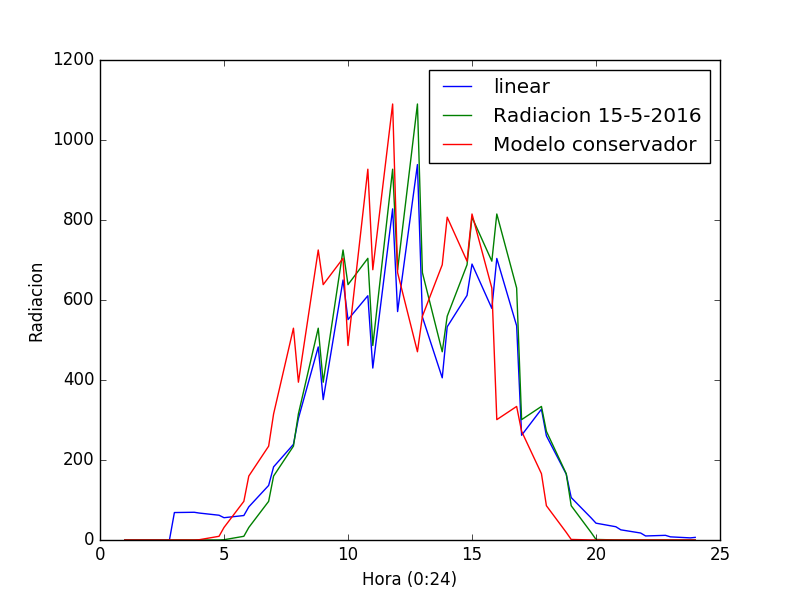
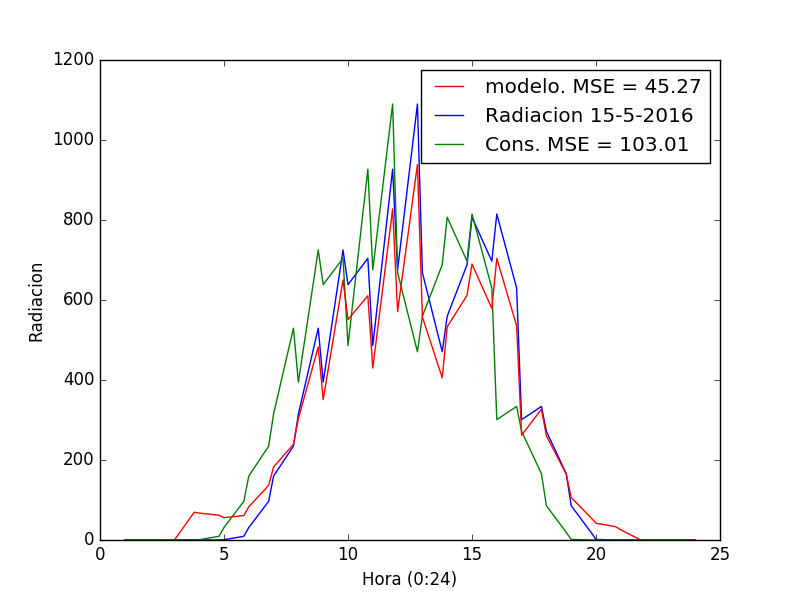
new plots and TODOS

diff --git a/memoria/chapter7.tex b/memoria/chapter7.tex
@@ -56,20 +56,58 @@ Como se puede observar en la figura \ref{resultado_linear}, el modelo obtenido c
 \item fit\_intercept: True
 \end{itemize}
 
-En el anexo \ref{Appendix:Key1} de Regresión Lineal, se muestran distintas gráficas con la radiación de este modelo durante varios días del año, la predicción que obtenemos con el modelo obtenido con mayor coeficiente de correlación y el modelo conservador.
+En el capítulo \ref{Appendix:Key1} (Anexo: Gráficas Regresión Lineal), se muestran distintas gráficas con la radiación de este modelo durante varios días del año, la predicción que obtenemos con el modelo obtenido con mayor coeficiente de correlación y el modelo conservador.
 
 Este ``modelo conservador'' expresa una predicción de la radiación que toma como valor, la radiación que toma como predicción la radiación en el instante anterior.
 
 El objetivo de este proyecto es superar, como mínimo este modelo conservador.
 
+% TODO - Hablar sobre mean square error
+
 \section{SVR}
 \label{makereference7.2}
 
-Para la exploración del modelo SVR usamos las siguientes posibles configuraciones:
+Para la exploración del modelo SVR usamos los siguientes parámetros:
 
-Esta configuración viene reflejada en la figura \ref{json}, al igual que regresión lineal.
+\begin{itemize}
+\item Inicio: 01-01-2015
+\item Fin: 31-12-2015
+\item k: 2, 3, 4, 5
+\item Horizonte de predicción: 2, 3, 4, 5, 6, 7
+\item C: 1, 10, 100, 1000
+\item gamma: 0.001, 0.0001
+\item kernel: linear, rbf 
+\end{itemize}
 
-Para SVR se utiliza la misma métrica que la vista en el apartado anterior. Esto es porque ambas son regresiones y esta es muy utilizada en ese caso.
+En los resultados de la exploración mostrados en la figura \ref{resultado_svr}, la columna ``mean'' utiliza la misma métrica que la vista en el apartado anterior. Esto es porque ambas son regresiones y esta es muy utilizada en ese caso.
+
+\begin{figure}[htb]
+	\begin{center}
+		\includegraphics[width=14cm]{figures/resultado_svr.png}
+		\caption{Resultado Regresión Lineal \label{resultado_svr}}
+	\end{center}
+\end{figure}
+
+La figura \ref{resultado_svr} muestra el modelo obtenido con mejor coeficiente de correlación (0.905100) y su configuración:
+
+\begin{itemize}
+\item Inicio: 01-01-2015
+\item Fin: 31-12-2015
+\item k: 5
+\item Horizonte de predicción: 2
+\item C: 1000
+\item gamma: 0.0001
+\item kernel: rbf 
+\end{itemize}
+
+En el capítulo \ref{Appendix:Key2} (Anexo: Gráficas SVR) podemos observar varias gráficas para distintos días del año con la predicción obtenida con este modelo frente a la radiación real y al modelo conservador.
+
+% TODO hay que interpretar la gráfica. ¿falla mucho el modelo? ¿falla más al amanecer/atardecer?¿falla más en verano? ¿se ve facilmente cuándo falla más? 
+%creo que falla más cuando más variaciones repentinas hay (cuando hay más picos hacia abajo)
+
+% Explicar que "MSE" es mean square error que significa el error medio al cuadrado. Es la media de las restas entre la prediccion y lo real al cuadrado. Para poder ver cuándo falla más y cuándo menos, se puede ver cuándo tiene menor MSE.
+
+% Hacer esto para los tres modelos
 
 \section{Redes Neuronales}
 \label{makereference7.3}
@@ -77,49 +115,16 @@ Para SVR se utiliza la misma métrica que la vista en el apartado anterior. Esto
 En la figura \ref{json_mlp} se puede observar los parámetros a explorar que usa GridSearch para determinar qué configuración del modelo de redes neuronales es mejor para nuestro proyecto:
 
 \begin{itemize}
+\item Inicio: 01-01-2015
+\item Fin: 31-12-2015
 \item k: 2, 3, 4, 5
-\item solver: ``lbfgs'', ``sgd''
-\item hidden\_layer\_sizes:
-	\begin{itemize}
-	\item 5, 2
-	\item 5, 3
-	\item 5, 4
-	\end{itemize}
-\item random\_state: 1, 2
+\item Horizonte de predicción: 2, 3, 4, 5, 6, 7
+\item solver: lbfgs, sgd
+\item hidden\_layers: (5, 2), (5, 3), (5, 4)
+\item ramdon\_state: 1, 2
 \end{itemize}
-
-\begin{figure}[htb]
-	\begin{center}
-		\includegraphics[width=12cm]{figures/json_mlp.png}
-		\caption{Archivo de configuración para la exploración de redes neuronales \label{json_mlp}}
-	\end{center}
-\end{figure}
 
 En este caso, la métrica utilizada para determinar la calidad del modelo ha sido ``accuracy'' (en español, exactitud). Es una métrica muy utilizada en clasificadores que indica el porcentaje de predicciones clasificadas correctamente.
-
-Después de realizar la exploración de los parámetros de los distintos algoritmos de predicción explicados anteriormente (capítulo \ref{makereference5}), hemos obtenido varias métricas de cada uno de ellos.
-
-\begin{itemize}
-	\item Media
-	\item Desviación estándar
-\end{itemize}
-
-Estas dos variables son las que nos dan la información necesaria para decantarnos por un modelo u otro. Buscamos aquella configuración de los parámetros que maximice la media y minimice el error.
-
-La primera prueba que se realizó fue con algoritmos de regresión lineal y SVR.
-
-De todos los resultados obtenidos, el que mayor media proporciona es un modelo realizado con Regresión Lineal, que obtiene una media de 0.910009 y un error de 0.003789. Su configuración es la siguiente:
-
-\begin{itemize}
-	\item k: 5
-	\item distancia: 2
-	\item copy\_X: ``true''
-	\item fit\_intercept: ``true''
-\end{itemize}
-
-Esta media no es suficiente para afirmar que el modelo predictivo funciona. Para ello necesitaríamos una media mayor. Intuitivamente, una regresión lineal nunca sería capaz de proporcionarnos una buena predicción, ya que nuestros datos no son lineales. Ver figura \ref{modelo_verano}.
-
-La segunda prueba se realizó con redes neuronales. Como este algoritmo es un clasificador ha sido necesario ``mapear'' las predicciones en distintas clases. Debido a que estos datos han sido normalizados, es sencillo clasificarlos en 100 clases [0, 100]. La intención de estas clases no es tanto acertar la cantidad de radiación sino proporcionar un rango en la que se encontrará.
 
 \begin{figure}[htb]
 	\begin{center}
@@ -128,28 +133,21 @@ La segunda prueba se realizó con redes neuronales. Como este algoritmo es un cl
 	\end{center}
 \end{figure}
 
-Una vez realizadas las pruebas, se observa que la media es muy baja,0.539901 en el mejor caso. Descartamos utilizar estos modelos de redes neuronales en nuestro proyecto.
-
-Como futura vía de estudio se plantea volver a realizar este entrenamiento replanteando los parámetros y el ``mapeo'' de las clases.
-
-Finalmente, hemos elegido el modelo SVR con las configuraciones siguientes:
+En la figura \ref{resultado_mlp} podemos ver los resultados del grid search para Redes Neuronales. La configuración del modelo con mayor ``accuracy'' obtenido es la siguiente:
 
 \begin{itemize}
-	\item k: 4
-	\item distancia: 2
-	\item kernel: ``rbf''
-	\item C: 1000
-	\item gamma: 0.001
+\item Inicio: 01-01-2015
+\item Fin: 31-12-2015
+\item k: 3
+\item Horizonte de predicción: 2
+\item solver: lbfgs
+\item hidden\_layers: (5, 4)
+\item ramdon\_state: 2
 \end{itemize}
 
-\begin{figure}[htb]
-	\begin{center}
-		\includegraphics[width=16cm]{figures/resultado_elegido.png}
-		\caption{Resultado elegido \label{resultado_elegido}}
-	\end{center}
-\end{figure}
+En el capítulo \ref{Appendix:Key3} tenemos distintas gráficas con la predicción realizada por este modelo, la radiación real y la predicción del modelo conservador para distintos días del año 2016.
 
-Aunque no es el modelo con más media ni menos error, es de los más equilibrados. Esta configuración obtiene una media de acierto de 0.901516, distanciándose en 0.008493 de la media máxima conseguida. Su error es de 0.000330. Además se intuye que SVR debería ser el modelo que mejor se ajuste. Por lo que en un futuro estudio que busque mejorar esta predicción, sería un buen punto de partida.
+% TODO hablar de mean square error y gráficas
 
 \section{Calidad del código}
 \label{makereference7.4}

diff --git a/train/generateGraphics.py b/train/generateGraphics.py
@@ -6,11 +6,12 @@ from graphics import predict
 import os
 import json
 import sys
+from sklearn.metrics import mean_absolute_error
 
 # Graficas para el dia 15/06/2016
 normPath = 'graphics/train/reversenorm.json'
 
-def getPredict(start, end, k, modelo):
+def getPredict(start, end, k, modelo, real):
     solarData = SolarData(start, end)
 
     df = pd.read_csv('data/csvWithCondition/' +
@@ -25,7 +26,6 @@ def getPredict(start, end, k, modelo):
         prediction = predict.getPrediction(df, row, index, start, k, modelo)
 
         radiacion.append(prediction)
-        print prediction
 
     newHoras = list()
     for h in horas:
@@ -33,7 +33,9 @@ def getPredict(start, end, k, modelo):
         hAux += h % 100 / 60.0
         newHoras.append(hAux)
 
-    return plt.plot(newHoras, radiacion, label=modelo)
+    print radiacion
+    mse = round(mean_absolute_error(radiacion, real), 2)
+    return plt.plot(newHoras, radiacion, label='modelo. MSE = ' + str(mse))
 
 
 def mapRad(rad):
@@ -75,10 +77,10 @@ def getRealRadiation(start, end, model):
     dia = str(start % 100)
     mes = str(int(start % 10000) / 100)
     ano = str(start / 10000)
-    return plt.plot(newHoras, radiacion, label='Radiacion ' + dia + '-' + mes + '-' + ano)
+    return plt.plot(newHoras, radiacion, label='Radiacion ' + dia + '-' + mes + '-' + ano), radiacion
 
 
-def getConservador(start, end, model):
+def getConservador(start, end, model, real):
     df = pd.read_csv('data/csvWithCondition/' +
                      str(start) + str(end) + '.csv.orig')
     radiacion = list()
@@ -96,13 +98,15 @@ def getConservador(start, end, model):
         hAux += h % 100 / 60.0
         newHoras.append(hAux)
 
-    return plt.plot(newHoras, radiacion, label='Modelo conservador')
+    mse = round(mean_absolute_error(radiacion, real), 2)
+    return plt.plot(newHoras, radiacion, label='Cons. MSE = ' + str(mse))
 
 
 def paintPlot(start, end, k, model):
-    plot1, = getPredict(start, end, k, model)
-    plot2, = getRealRadiation(start, end, model)
-    plot3, = getConservador(start, end, model)
+    real = getRealRadiation(start, end, model)
+    plot2, = real[0]
+    plot3, = getConservador(start, end, model, real[1])
+    plot1, = getPredict(start, end, k, model, real[1])
     plt.xlabel('Hora (0:24)')
     plt.ylabel('Radiacion')
     plt.legend(handles=[plot1, plot2, plot3])

diff --git a/train/graphics/predict.py b/train/graphics/predict.py
@@ -32,6 +32,9 @@ def getPrediction(df, row, index, start, k, model):
         date2015, normData['fecha'][0], normData['fecha'][1], normData['fecha'][2])
     predictData = [row['codigo'], dateNorm]
 
+    if row['radiacion'].item() == 0.0:
+        return 0
+
     now = row['hora']
     for i in range(k - 1):
 
@@ -81,7 +84,7 @@ def getPrediction(df, row, index, start, k, model):
         predDenorm = denormalize(prediction, normData['radiacion'][0], normData['radiacion'][1], normData['radiacion'][2])
         return predDenorm[0]
     else:
-        return prediction
+        return prediction[0]
 
 
 def normalize(data, mean, mx, mn):
